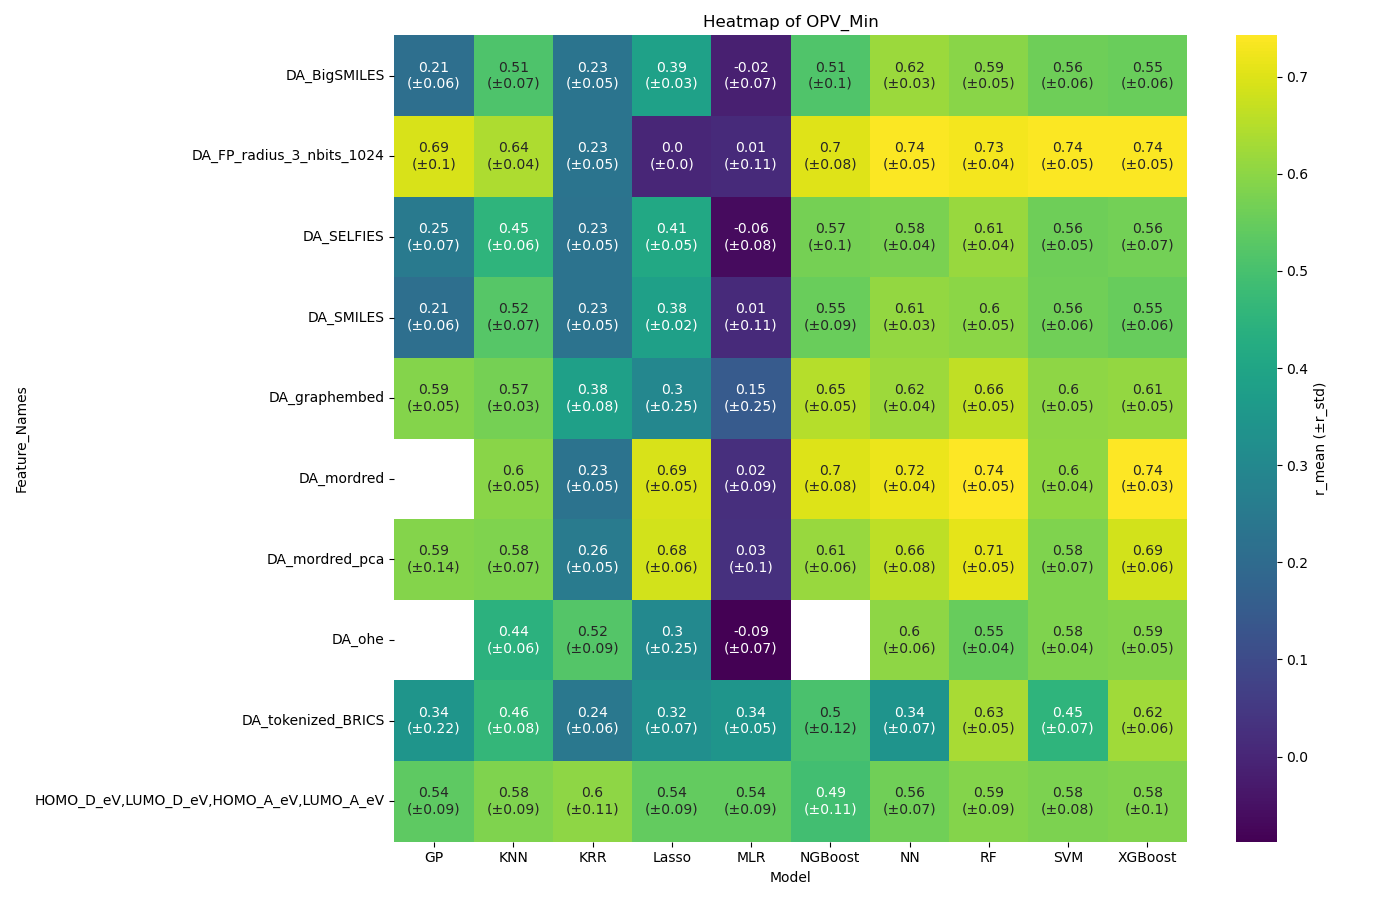
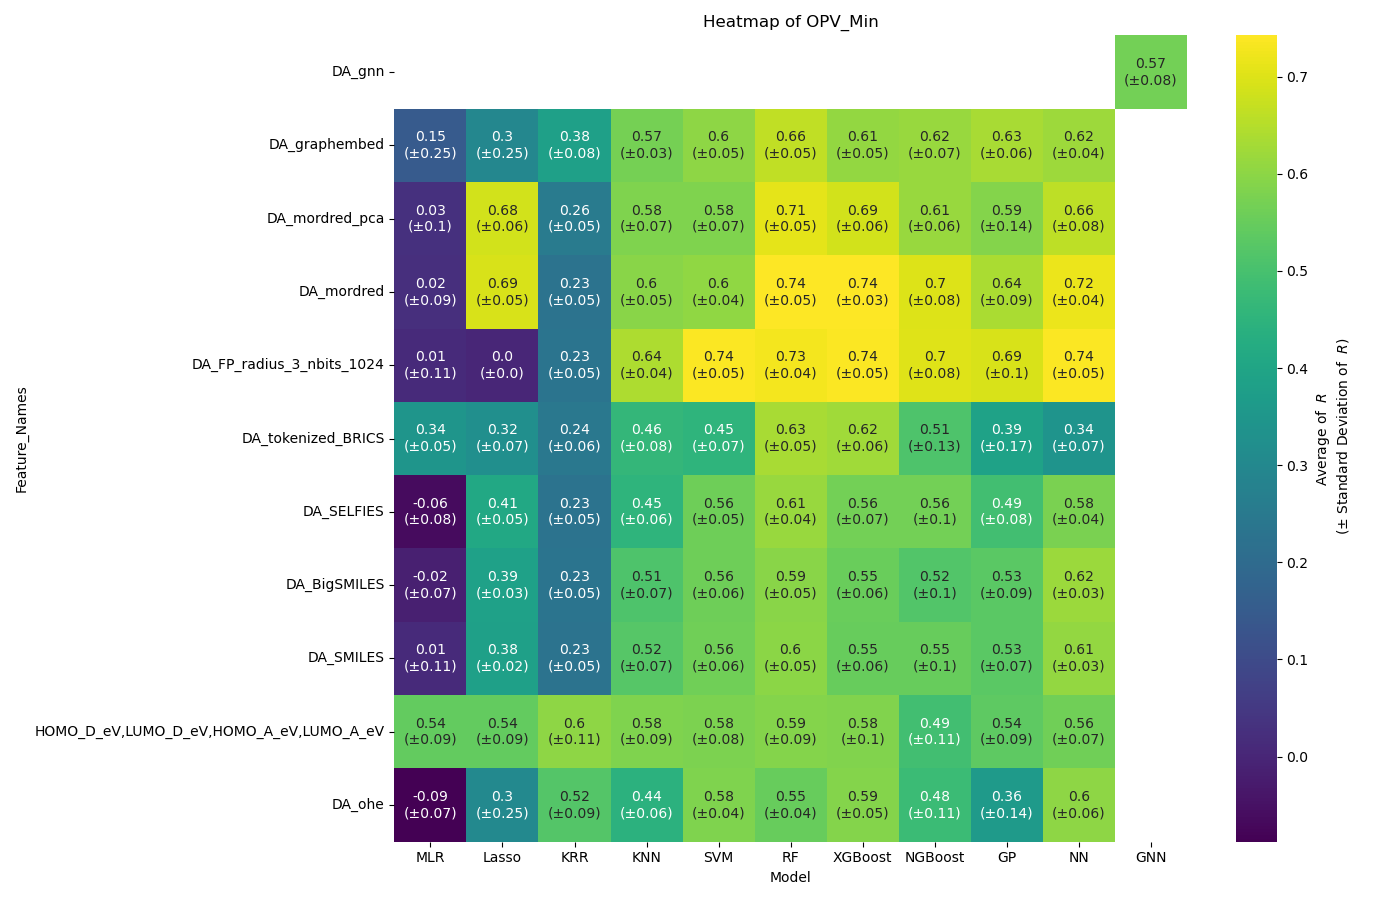
working on plotting for Martin's GM (2023-04-26)

diff --git a/ml_for_opvs/visualization/transfer_gary_results.py b/ml_for_opvs/visualization/transfer_gary_results.py
@@ -9,10 +9,13 @@ import re
 # shutil.move("path/to/current/file.foo", "path/to/new/destination/for/file.foo")
 
 # gary's trained results folder
-gary_trained_results: Path = Path(__file__).parent.parent.parent / "gary" / "trained_results"
+gary_trained_results: Path = (
+    Path(__file__).parent.parent.parent / "gary" / "trained_results"
+)
 
 # training folder with all results
 training_folder: Path = Path(__file__).parent.parent / "training" / "OPV_Min"
+
 
 def transfer_results(gary_trained_results: Path, training_folder: Path):
     """Transfer gary's trained results to the training folder.
@@ -20,15 +23,30 @@ def transfer_results(gary_trained_results: Path, training_folder: Path):
         gary_trained_results (Path): _description_
         training_folder (Path): _description_
     """
-    input_reps: dict = {"fp": "fingerprint", "brics": "BRICS", "homolumo": "homo_lumo", "smiles": "smiles", 
-                        "bigsmiles": "smiles", "selfies": "smiles", "ohe": "ohe", "graphembed": "graphembed",
-                        "mordred": "mordred"}
+    input_reps: dict = {
+        "fp": "fingerprint",
+        "brics": "BRICS",
+        "homolumo": "homo_lumo",
+        "smiles": "smiles",
+        "bigsmiles": "smiles",
+        "selfies": "smiles",
+        "ohe": "ohe",
+        "graphembed": "graphembed",
+        "mordred": "mordred",
+    }
     models: dict = {"gp": "GP", "ngboost": "NGBoost"}
-    feature: dict = {"brics": "DA_tokenized_BRICS", "fp": "DA_FP_radius_3_nbits_1024", 
-                     "gnn": "DA_gnn", "graphembed": "DA_graphembed", 
-                     "homolumo": "HOMO_D_eV,LUMO_D_eV,HOMO_A_eV,LUMO_A_eV", 
-                     "mordred": "DA_mordred", "ohe": "DA_ohe", "smiles": "DA_SMILES", 
-                     "bigsmiles" :"DA_BigSMILES", "selfies": "DA_SELFIES"}
+    feature: dict = {
+        "brics": "DA_tokenized_BRICS",
+        "fp": "DA_FP_radius_3_nbits_1024",
+        "gnn": "DA_gnn",
+        "graphembed": "DA_graphembed",
+        "homolumo": "HOMO_D_eV,LUMO_D_eV,HOMO_A_eV,LUMO_A_eV",
+        "mordred": "DA_mordred",
+        "ohe": "DA_ohe",
+        "smiles": "DA_SMILES",
+        "bigsmiles": "DA_BigSMILES",
+        "selfies": "DA_SELFIES",
+    }
     target: dict = {}
     for file in gary_trained_results.iterdir():
         # move this file to the correct folder in training folder
@@ -39,16 +57,26 @@ def transfer_results(gary_trained_results: Path, training_folder: Path):
         name_of_file_list: list = name_of_file.split(".")[0].split("_")
         # print(f"{name_of_file_list=}")
         try:
-            new_path: Path = new_path / input_reps[name_of_file_list[2]] / "result_molecules_only" / models[name_of_file_list[1]]
-            new_path: Path = new_path / feature[name_of_file_list[2]] / "calc_PCE_percent"
+            new_path: Path = (
+                new_path
+                / input_reps[name_of_file_list[2]]
+                / "result_molecules_only"
+                / models[name_of_file_list[1]]
+            )
+            new_path: Path = (
+                new_path / feature[name_of_file_list[2]] / "calc_PCE_percent"
+            )
+            # make sure new_path exists
+            new_path.mkdir(parents=True, exist_ok=True)
             if "summary" in name_of_file:
                 new_path: Path = new_path / "summary.csv"
             else:
                 new_path: Path = new_path / "progress_report.csv"
             print(f"{file.absolute=}")
-            print(f"{new_path.absolute=}")    
+            print(f"{new_path.absolute=}")
             shutil.copyfile(file, new_path)
         except:
             continue
+
 
 transfer_results(gary_trained_results, training_folder)

diff --git a/ml_for_opvs/visualization/heatmap.py b/ml_for_opvs/visualization/heatmap.py
@@ -78,9 +78,9 @@ def heatmap(config: dict):
             "DA_SELFIES",
             "DA_BigSMILES",
             "DA_SMILES",
-            "DA_ohe",
             "HOMO_D_eV,LUMO_D_eV,HOMO_A_eV,LUMO_A_eV",
-            "HOMO_D_eV,LUMO_D_eV,HOMO_A_eV,LUMO_A_eV,Eg_D_eV,Ehl_D_eV,Eg_A_eV,Ehl_A_eV",
+            # "HOMO_D_eV,LUMO_D_eV,HOMO_A_eV,LUMO_A_eV,Eg_D_eV,Ehl_D_eV,Eg_A_eV,Ehl_A_eV",
+            "DA_ohe",
         ]
         x_name = "Model"
         y_name = "Feature_Names"
@@ -103,6 +103,8 @@ def heatmap(config: dict):
             "SVM",
         ]
         y = ["calc_PCE_percent", "FF_percent", "Voc_V", "Jsc_mA_cm_pow_neg2"]
+        x_name = "Model"
+        y_name = "Target"
     elif config["config_name"] == "feature_comparison":
         x = ["RF_ensemble", "XGBoost_ensemble", "SVM_ensemble"]
         # y = [
@@ -121,7 +123,8 @@ def heatmap(config: dict):
     # NOTE: You have to change the pivot columns depending on your plot!
     print(f"{mean_metric=}")
     mean_summary: pd.DataFrame = summary.pivot(x_name, y_name, mean_metric)
-    # mean_summary: pd.DataFrame = mean_summary.reindex(index=y, columns=x)
+    mean_summary: pd.DataFrame = mean_summary.reindex(index=x, columns=y)
+
     summary_annotated: pd.DataFrame = deepcopy(summary)
     with pd.option_context(
         "display.max_rows",
@@ -142,9 +145,11 @@ def heatmap(config: dict):
     summary_annotated: pd.DataFrame = summary_annotated.pivot(
         x_name, y_name, "annotate_label"
     )
+    # mean_summary: pd.DataFrame = mean_summary.T
+    # summary_annotated: pd.DataFrame = summary_annotated.T
+    summary_annotated: pd.DataFrame = summary_annotated.reindex(index=x, columns=y)
     mean_summary: pd.DataFrame = mean_summary.T
     summary_annotated: pd.DataFrame = summary_annotated.T
-    # summary_annotated: pd.DataFrame = summary_annotated.reindex(index=y, columns=x)
 
     summary_annotated: np.ndarray = summary_annotated.to_numpy()
     with pd.option_context(
@@ -162,7 +167,11 @@ def heatmap(config: dict):
         annot=summary_annotated,
         cmap="viridis",
         fmt="",
-        cbar_kws={"label": "{} (±{})".format(mean_metric, std_metric)},
+        cbar_kws={
+            "label": "Average of $\;R$ \n ($±\;$Standard Deviation of $\;R$)".format(
+                mean_metric, std_metric
+            ),
+        },
     )
 
     # for plotting/saving
